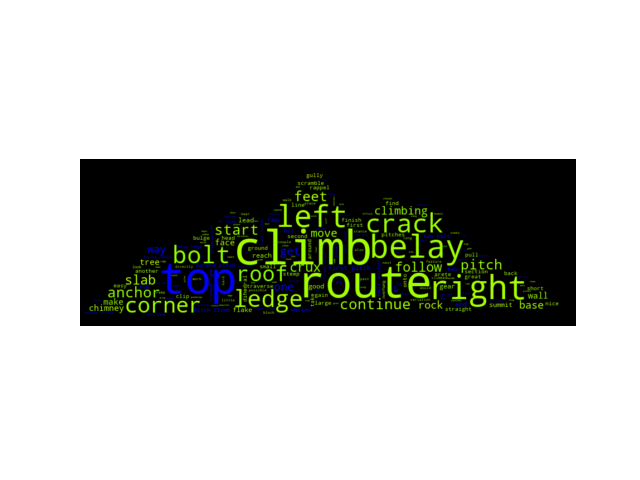
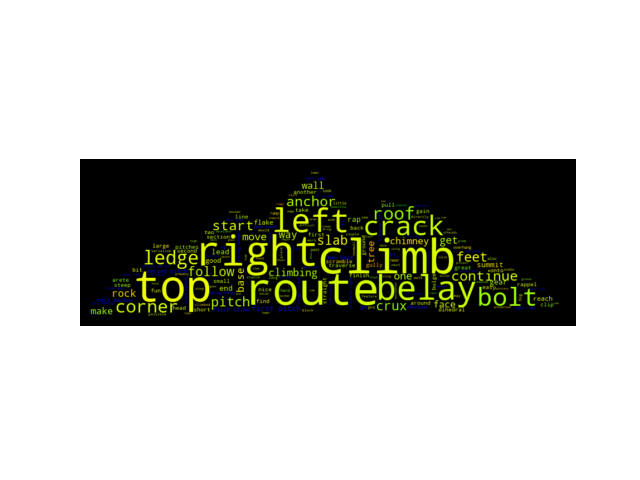
better wordclouds

Changed region(s): [[0.125, 0.3438, 0.875, 0.6562]]

diff --git a/wordclouds.py b/wordclouds.py
@@ -19,6 +19,9 @@ for i in df["Route"]:
     names = names + " " + i
 # print(names)
 
+
+
+
 # translator = str.maketrans('', '', string.punctuation)
 # j = 0
 # dictionary = {}
@@ -39,18 +42,11 @@ for i in df["Route"]:
 # # print(descs_ts)
 # # print(dictionary)
 
-
-with open("descriptions.txt", 'r', encoding="utf-8") as file:
-    descs = file.read()
-
-
-
-def long_word(word):
-    if len(word)>3:
-        return True
-    else:
-        return False
-
+# def long_word(word):
+#     if len(word)>2:
+#         return True
+#     else:
+#         return False
 # word_df = pd.DataFrame(dictionary).T
 # # print(word_df)
 # word_df = word_df.rename(columns={0: "Frequency", 1 : "Score"})
@@ -61,8 +57,12 @@ def long_word(word):
 # word_df = word_df.drop(columns=["Words"])
 # # print(word_df)
 # word_df["Score"] = word_df["Score"]/word_df["Frequency"]
-
 # word_df.to_csv("word_score_df.csv")
+
+
+with open("descriptions.txt", 'r', encoding="utf-8") as file:
+    descs = file.read()
+
 
 word_df = pd.read_csv("word_score_df.csv")
 word_df = word_df.set_index("Word")
@@ -110,9 +110,9 @@ def word_search(df, words):
                 print(f"Warning: {i} not in dataframe")
     new_df = new_df.set_index("Word")
     return(new_df.sort_values(by="Score", ascending=False))
-print(word_search(word_df, steepness))
-print(word_search(word_df, stones))
-print(word_search(word_df, holds))
+# print(word_search(word_df, steepness))
+# print(word_search(word_df, stones))
+# print(word_search(word_df, holds))
 
 
 mount_mask = np.array(Image.open("Images\mountain_trans.png"))
@@ -121,7 +121,7 @@ mount_mask = np.array(Image.open("Images\mountain_trans.png"))
 def star_colour_grade(word, font_size, position, orientation, random_state=None,**kwargs):
     # print(word)
     if word in all_words:
-        return f"hsl({word_df["Score"].loc[word]*30}, 100%, 50%)"
+        return f"hsl({((word_df["Score"].loc[word]-2.07)*105)}, 100%, 50%)"
     else:
         return f"hsl(240, 100%, 50%)"
 
@@ -131,13 +131,13 @@ def star_colour_grade(word, font_size, position, orientation, random_state=None,
 # plt.savefig("Graphs\Route Name Wordcloud")
 # plt.show()
 
-# wc = WordCloud(background_color="black", mask = mount_mask, width = 1600, height = 1000, stopwords= stopwords).generate(descs)
-# default_colors = wc.to_array()
+wc = WordCloud(background_color="black", mask = mount_mask, width = 1600, height = 1000, stopwords= stopwords).generate(descs)
+default_colors = wc.to_array()
 
-# plt.imshow(wc.recolor(color_func = star_colour_grade), interpolation="bilinear")
-# wc.to_file("test.png")
-# plt.axis("off")
-# plt.savefig("Graphs\Route Description Wordcloud")
+plt.imshow(wc.recolor(color_func = star_colour_grade), interpolation="bilinear")
+wc.to_file("test.png")
+plt.axis("off")
+plt.savefig("Graphs\Route Description Wordcloud")
 
 
 # plt.figure()

diff --git a/climbing.py b/climbing.py
@@ -154,7 +154,7 @@ df = outlier_remover(df, "Pitches")
 # plt.xlabel("Longitude")
 # plt.ylabel("Latitude")
 # plt.title("Where Climbing Routes Can Be Found Across The World")
-# plt.savefig("Map_Ratings")
+# plt.savefig(Graphs\"Map_Ratings")
 # plt.show()
 
 # #* A scatter plot showing the correlation between the difficulty of a climb and how many stars it recieved.
@@ -165,18 +165,18 @@ df = outlier_remover(df, "Pitches")
 # m,c = np.polyfit(df["Rating"], df["Avg_Stars"], 1)
 # print(f"The equation for line of best fit is y = {m} x + {c}, where y=stars and x=rating")
 # plt.plot(df["Rating"], m*df["Rating"]+c, color = "red")
-# plt.savefig("Ratings_vs_Stars")
+# plt.savefig("Graphs\Ratings_vs_Stars")
 # plt.show()
 
 # #* A scatter plot showing the correlation between the length of a climb and how many stars it recieved.
 # plt.scatter(df["Length"], df["Avg_Stars"], s=0.3, color="blue")
-# plt.xlabel("Length")
+# plt.xlabel("Length (ft)")
 # plt.ylabel("Stars")
 # plt.title("Comparing length and stars")
 # m,c = np.polyfit(df["Length"], df["Avg_Stars"], 1)
 # print(f"The equation for line of best fit is y = {m} x + {c}, where y=stars and x=length")
 # plt.plot(df["Length"], m*df["Length"]+c, color = "red")
-# plt.savefig("Length vs Stars")
+# plt.savefig("Graphs\Length vs Stars")
 # plt.show()
 
 # #* A scatter plot showing the correlation between how many pitches a climb has and how many stars it recieved.
@@ -187,7 +187,7 @@ df = outlier_remover(df, "Pitches")
 # m,c = np.polyfit(df["Pitches"], df["Avg_Stars"], 1)
 # print(f"The equation for line of best fit is y = {m} x + {c}, where y=stars and x=pitches")
 # plt.plot(df["Pitches"], m*df["Pitches"]+c, color = "red")
-# plt.savefig("Pitches vs Stars")
+# plt.savefig("Graphs\Pitches vs Stars")
 # plt.show()
 
 df.to_csv("outputted_df.csv", index = False)
